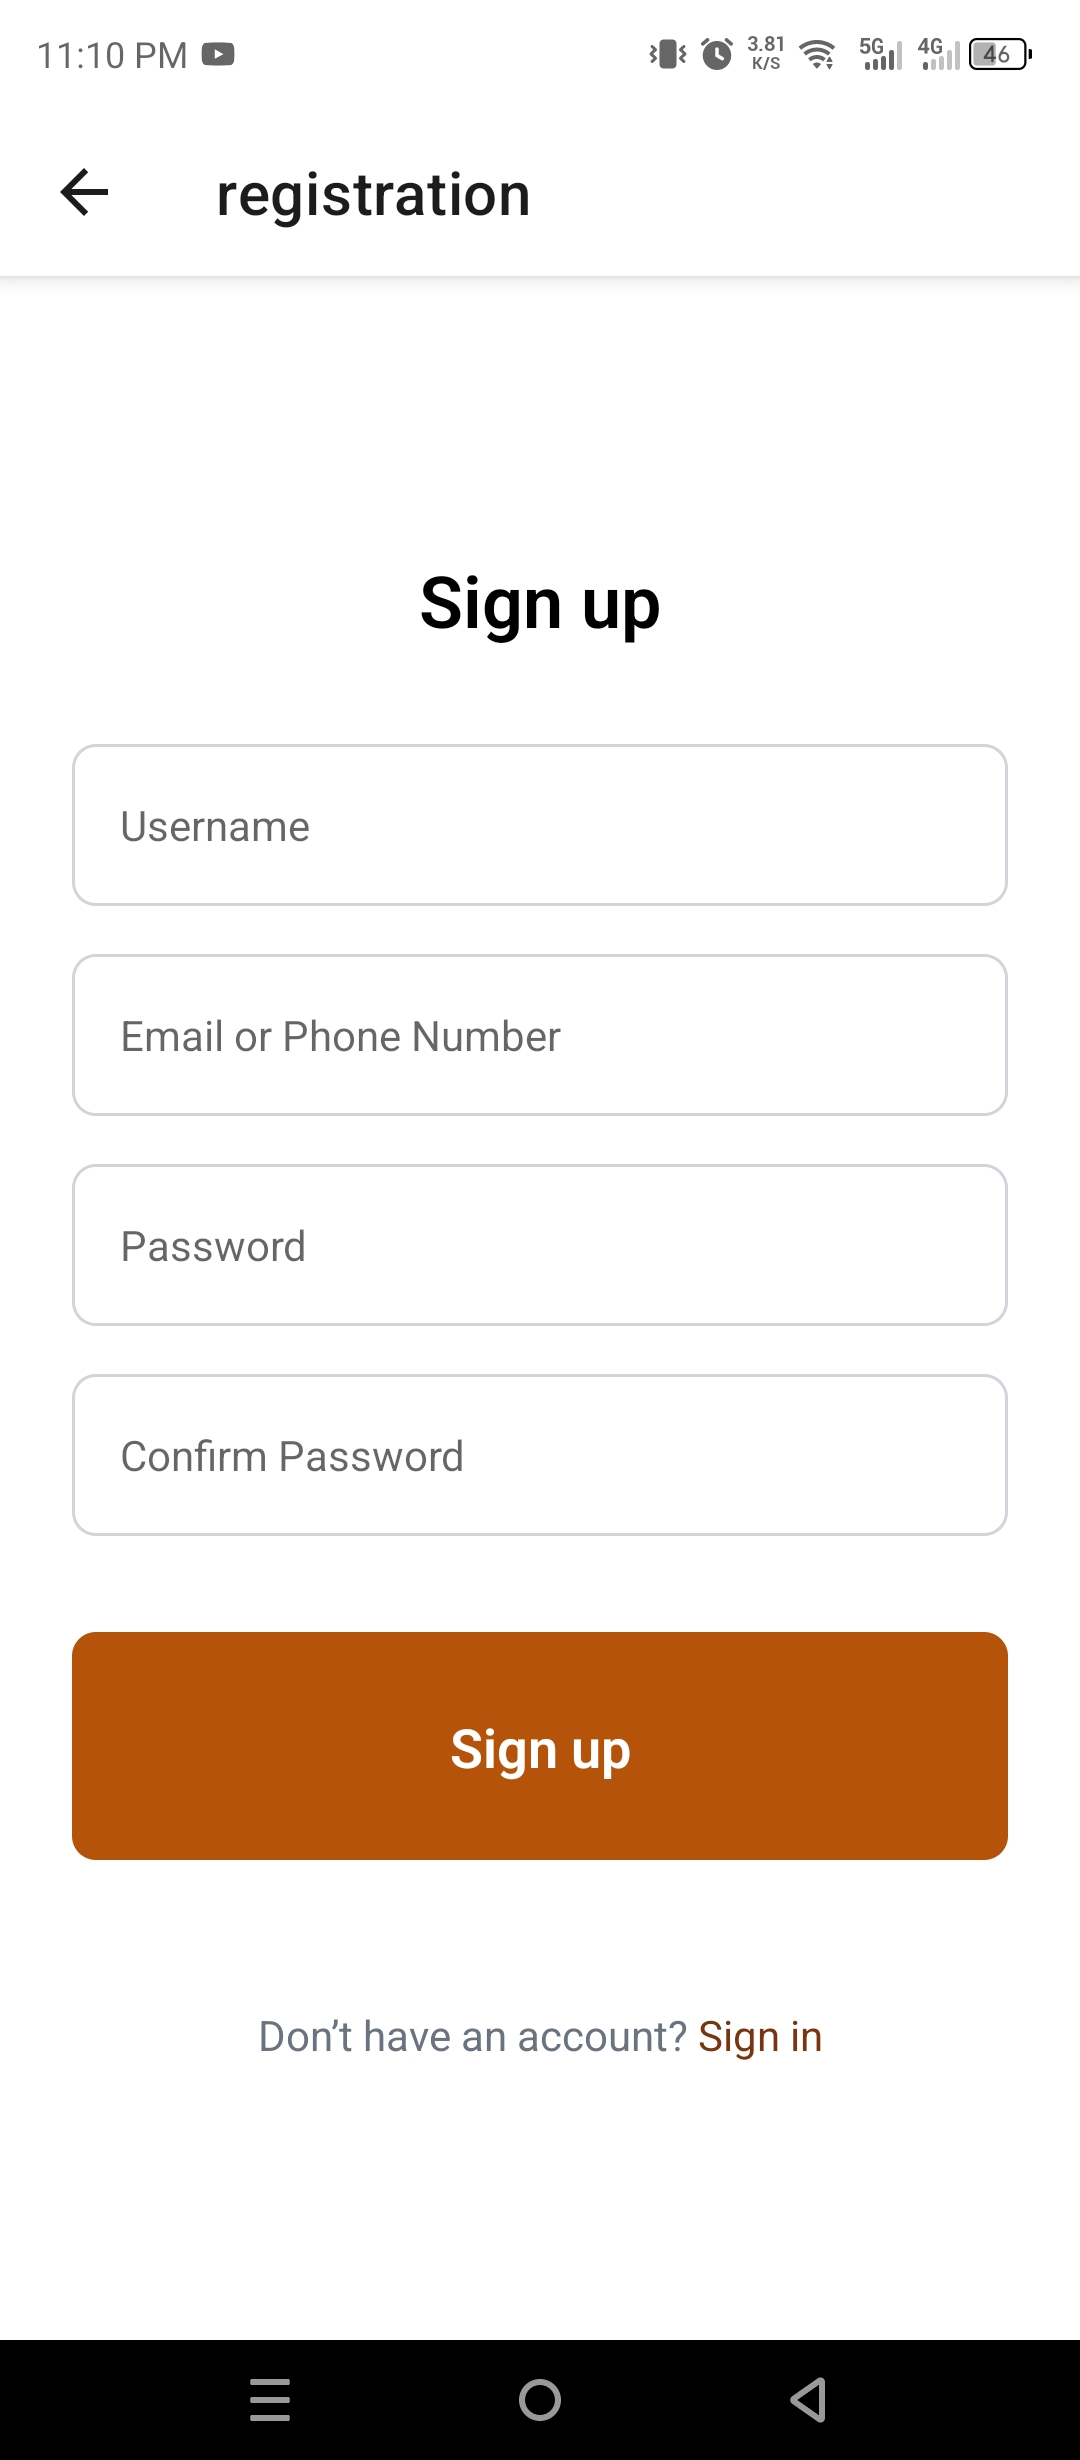
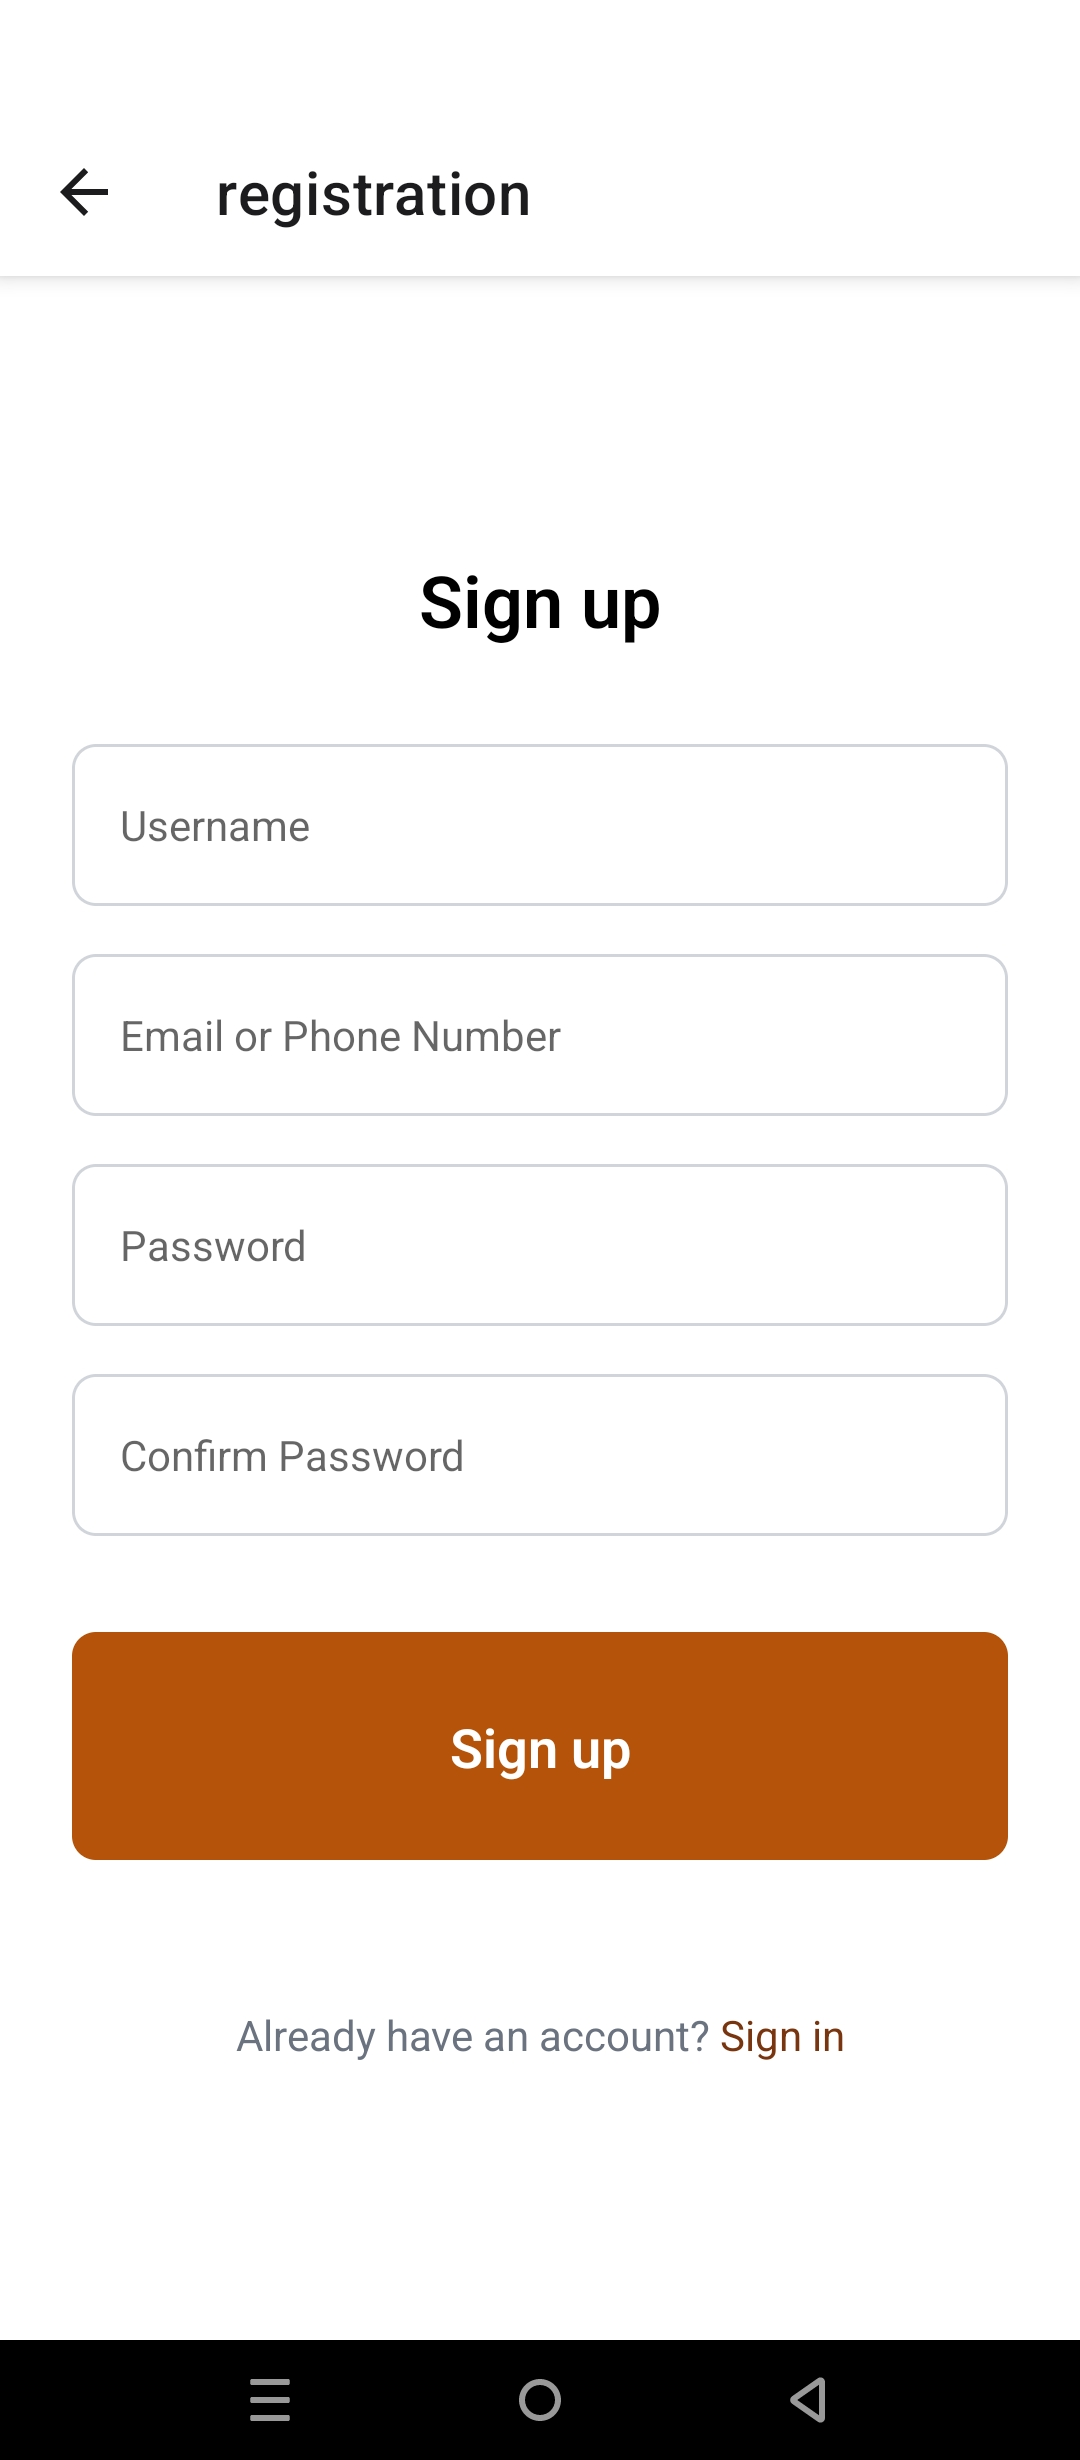
Add readme

diff --git a/app/registration.jsx b/app/registration.jsx
@@ -45,7 +45,7 @@ export default function registration() {
         </TouchableOpacity>
 
         <Text className="text-sm text-center  text-gray-500 mt-6">
-          Don’t have an account?{' '}
+          Already have an account?{' '}
           <Text className="text-amber-900">Sign in</Text>
         </Text>
 
